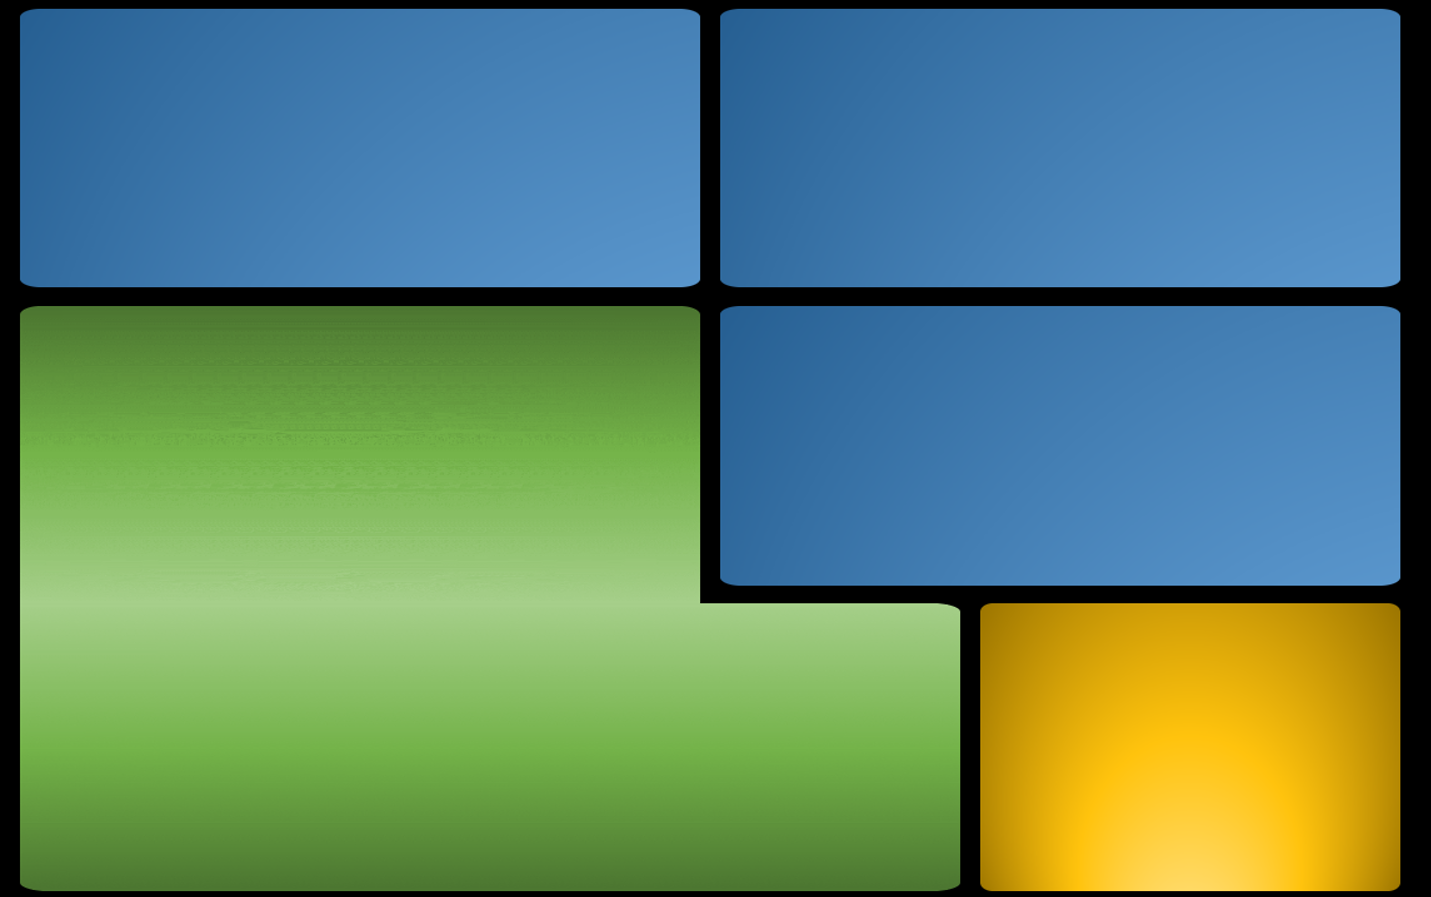
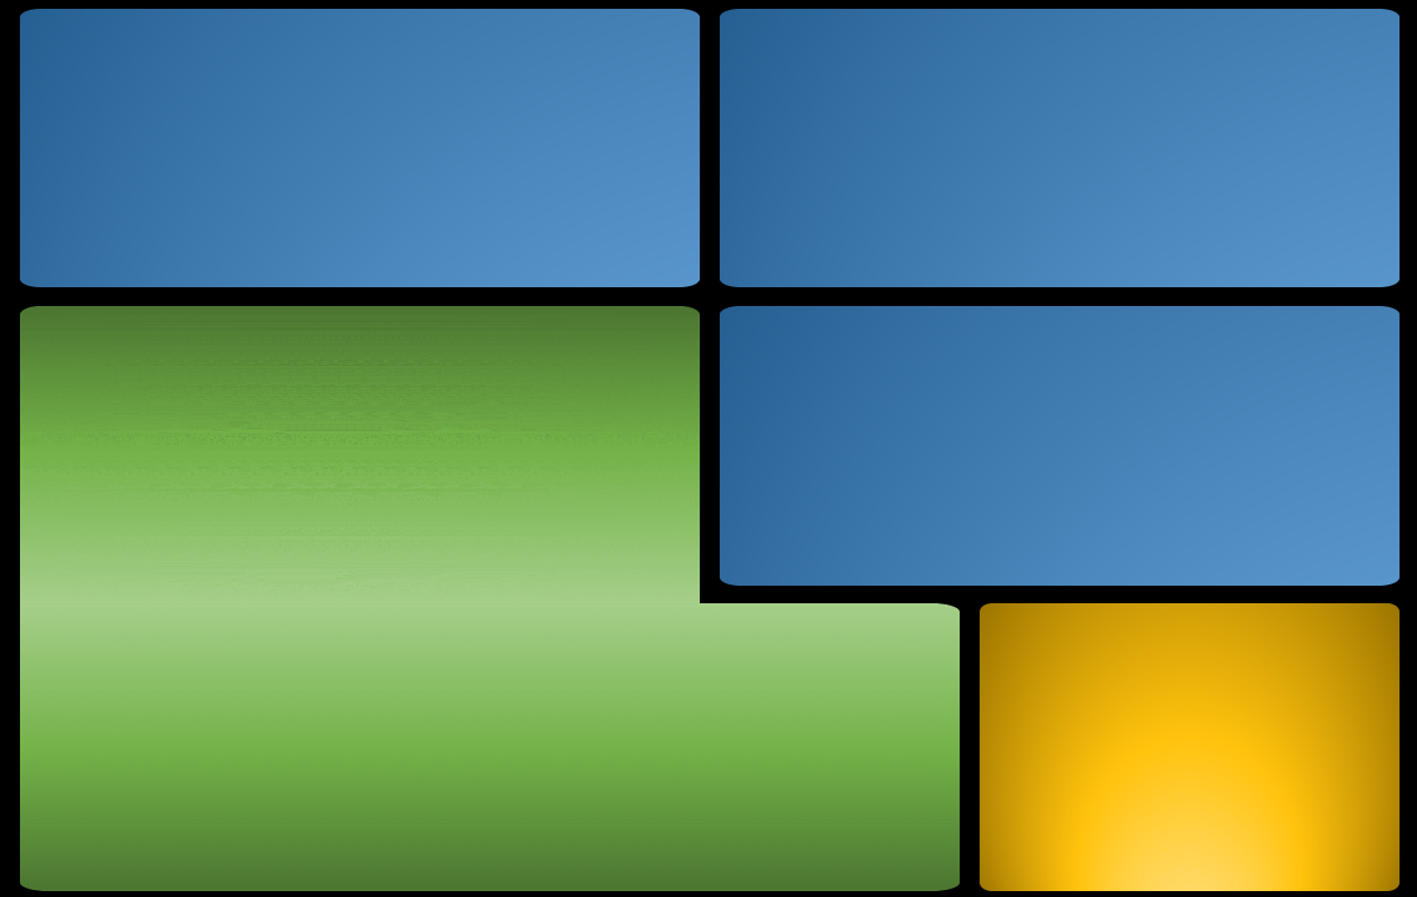
setting out play area sections in css

diff --git a/web/SeniorProject/styles.css b/web/SeniorProject/styles.css
@@ -17,7 +17,7 @@ body {
 
 #nonSidebar {
     background-size: 100% 100%;
-    background-image: url("panel_background.png");
+    background-image: url("panelBackground.png");
     position: fixed;
     top: 0%;
     left: 0%;
@@ -49,32 +49,32 @@ iframe {
 
 .topLeftPlayerDrive {
     top: 2%;
-    left: 4.5%;
+    left: 4%;
 }
 
 .topLeftPlayerSpeed {
     top: 2%;
-    left: 14.5%;
+    left: 14%;
 }
 
 .topLeftPlayerMiles {
     top: 2%;
-    left: 24.5%;
+    left: 24%;
 }
 
 .topRightPlayerDrive {
     top: 2%;
-    left: 40.5%;
+    left: 39%;
 }
 
 .topRightPlayerSpeed {
     top: 2%;
-    left: 50.5%;
+    left: 49%;
 }
 
 .topRightPlayerMiles {
     top: 2%;
-    left: 60.5%;
+    left: 59%;
 }
 
 
